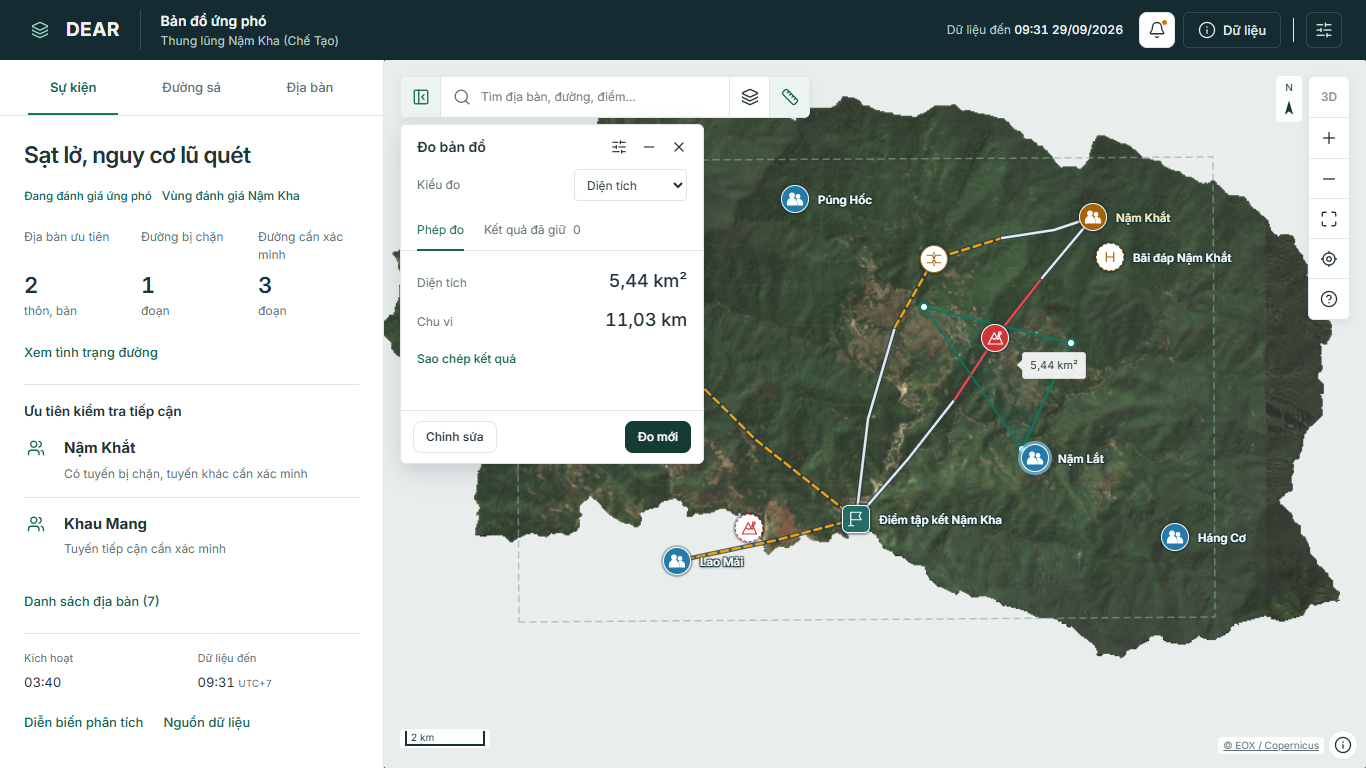
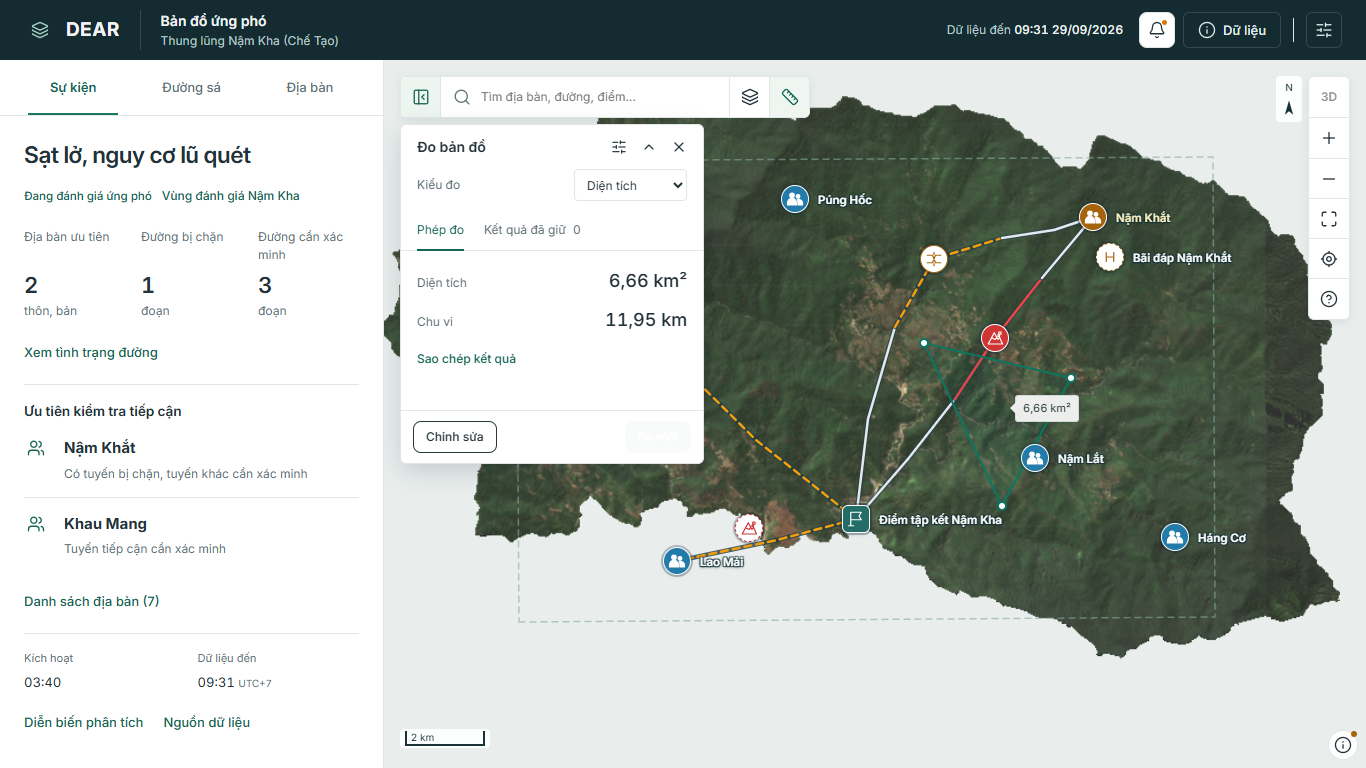
fix(dear): allow measurement tool changes and document GIS review

diff --git a/DEM_to_3D/viewer/src/features/measurement/measurementSession.test.ts b/DEM_to_3D/viewer/src/features/measurement/measurementSession.test.ts
@@ -51,11 +51,41 @@ describe('measurement session', () => {
     expect(applied.editing).toBe(false);
     expect(applied.source).toBeUndefined();
   });
-  it('does not apply invalid edits and does not switch modes during editing', () => {
+  it('does not apply invalid edits and restores the original result when switching modes', () => {
     const finished = reduce(reduce(initialMeasurementSession, { type: 'points', points: [a, b] }), { type: 'finish' });
     const invalid = reduce(reduce(finished, { type: 'edit' }), { type: 'points', points: [a] });
     expect(reduce(invalid, { type: 'finish' })).toBe(invalid);
-    expect(reduce(invalid, { type: 'mode', mode: 'area' })).toBe(invalid);
+    const switched = reduce(invalid, { type: 'mode', mode: 'area' });
+    expect(switched.mode).toBe('area');
+    expect(switched.points).toEqual([]);
+    expect(switched.editing).toBe(false);
+    expect(switched.saved[0].points).toEqual([a, b]);
     expect(reduce(invalid, { type: 'cancel' }).points).toEqual([a, b]);
+  });
+  it('retains valid edits in their original mode and starts a new measurement', () => {
+    const imported = reduce(initialMeasurementSession, { type: 'import', mode: 'distance', points: [a, b], source: 'Road' });
+    const editedPoints = [a, { ...b, x: b.x + 100 }];
+    const edited = reduce(reduce(imported, { type: 'edit' }), { type: 'points', points: editedPoints });
+    expect(reduce(edited, { type: 'mode', mode: 'distance' })).toBe(edited);
+    const switched = reduce(edited, { type: 'mode', mode: 'area' });
+    expect(switched.saved).toEqual([{ id: 1, mode: 'distance', points: editedPoints, visible: true, source: undefined }]);
+    expect(switched.points).toEqual([]);
+    expect(switched.editStart).toBeUndefined();
+    expect(switched.undo).toEqual([]);
+    expect(switched.finished).toBe(false);
+  });
+  it('preserves source attribution when an invalid edit is discarded during a mode change', () => {
+    const imported = reduce(initialMeasurementSession, { type: 'import', mode: 'distance', points: [a, b], source: 'Road' });
+    const invalid = reduce(reduce(imported, { type: 'edit' }), { type: 'points', points: [a] });
+    expect(reduce(invalid, { type: 'mode', mode: 'bearing' }).saved[0]).toEqual({ id: 1, mode: 'distance', points: [a, b], visible: true, source: 'Road' });
+  });
+  it('discards an unfinished sketch when switching tools without losing completed results', () => {
+    const imported = reduce(initialMeasurementSession, { type: 'import', mode: 'distance', points: [a, b], source: 'Road' });
+    const next = reduce(imported, { type: 'new' });
+    const draft = reduce(next, { type: 'points', points: [a] });
+    const switched = reduce(draft, { type: 'mode', mode: 'area' });
+    expect(switched.points).toEqual([]);
+    expect(switched.saved).toEqual(next.saved);
+    expect(switched.nextId).toBe(next.nextId);
   });
 });

diff --git a/DEM_to_3D/viewer/src/features/measurement/MapMeasurement.tsx b/DEM_to_3D/viewer/src/features/measurement/MapMeasurement.tsx
@@ -52,11 +52,11 @@ export function MapMeasurement({ mapRef, enabled, locale, session, dispatch, sou
     <div className="map-measure-heading floating-panel-handle" {...floating} tabIndex={0} role="group" aria-label={t('Vị trí công cụ đo', 'Measurement panel position')} aria-keyshortcuts="ArrowLeft ArrowRight ArrowUp ArrowDown Home" title={t('Kéo để đổi vị trí. Nhấp đúp để đặt lại.', 'Drag to move. Double-click to reset.')}>
       <strong>{t('Đo bản đồ', 'Map measurement')}</strong>
       <button className="icon-button" aria-label={t('Tùy chọn đo', 'Measurement settings')} title={t('Tùy chọn đo', 'Measurement settings')} aria-expanded={view === 'options' && !collapsed} aria-controls="measurement-options" onClick={() => { setCollapsed(false); setView(value => value === 'options' ? 'measure' : 'options'); }}><UiIcon name="settings" size={16}/></button>
-      <button className="icon-button" aria-label={collapsed ? t('Mở rộng công cụ đo', 'Expand measurement') : t('Thu gọn công cụ đo', 'Collapse measurement')} aria-expanded={!collapsed} onClick={() => setCollapsed(value => !value)}><UiIcon name={collapsed ? 'plus' : 'minus'} size={16}/></button>
+      <button className="icon-button" aria-label={collapsed ? t('Mở rộng công cụ đo', 'Expand measurement') : t('Thu gọn công cụ đo', 'Collapse measurement')} aria-expanded={!collapsed} onClick={() => setCollapsed(value => !value)}><UiIcon name={collapsed ? 'expand' : 'collapse'} size={16}/></button>
       <button className="icon-button" aria-label={t('Đóng công cụ đo', 'Close measurement')} onClick={close}><UiIcon name="close" size={16}/></button>
     </div>
     {collapsed ? <button className="map-measure-compact" onClick={() => setCollapsed(false)}><span>{t(...modeNames[session.mode])}</span><strong>{results[0]?.[1] ?? t('Chọn điểm', 'Select points')}</strong></button> : <>
-      <label className="map-measure-type"><span>{t('Kiểu đo', 'Measurement type')}</span><select aria-label={t('Kiểu đo', 'Measurement type')} disabled={session.editing} value={session.mode} onChange={event => { dispatch({ type: 'mode', mode: event.target.value as MeasureMode }); setView('measure'); }}>
+      <label className="map-measure-type"><span>{t('Kiểu đo', 'Measurement type')}</span><select aria-label={t('Kiểu đo', 'Measurement type')} value={session.mode} onChange={event => { dispatch({ type: 'mode', mode: event.target.value as MeasureMode }); setView('measure'); }}>
         {Object.entries(modeNames).map(([mode, name]) => <option key={mode} value={mode}>{t(...name)}</option>)}
       </select></label>
       <div className="measure-tabs" aria-label={t('Nội dung công cụ đo', 'Measurement views')}>

diff --git a/DEM_to_3D/viewer/src/features/measurement/MeasurementRecords.tsx b/DEM_to_3D/viewer/src/features/measurement/MeasurementRecords.tsx
@@ -13,7 +13,7 @@ export function MeasurementDetails({ session, units, locale }: Props) {
   const hasCoordinates = session.mode === 'location' && session.points.length > 0;
   if (!hasSegments && !hasCoordinates) return null;
   return <div className="measure-details">
-    <button className="measure-detail-toggle" aria-expanded={open} aria-controls="measurement-details" onClick={() => setOpen(value => !value)}>{hasSegments ? t('Chi tiết từng đoạn', 'Segment details') : 'UTM 48N'}<UiIcon name={open ? 'minus' : 'plus'} size={14}/></button>
+    <button className="measure-detail-toggle" aria-expanded={open} aria-controls="measurement-details" onClick={() => setOpen(value => !value)}>{hasSegments ? t('Chi tiết từng đoạn', 'Segment details') : 'UTM 48N'}<UiIcon name={open ? 'collapse' : 'expand'} size={14}/></button>
     {open && <div id="measurement-details">{hasSegments ? <table><thead><tr><th>{t('Đoạn', 'Segment')}</th><th>{t('Chiều dài', 'Length')}</th></tr></thead><tbody>{session.points.slice(1).map((point, index) => <tr key={index}><td>{t('Đoạn ', 'Segment ') + (index + 1)}</td><td>{formatDistance(horizontalLength([session.points[index], point]), units, locale)}</td></tr>)}</tbody></table> : <dl className="measure-coordinate-grid"><div><dt>E</dt><dd>{session.points[0].x.toFixed(1)} m</dd></div><div><dt>N</dt><dd>{session.points[0].y.toFixed(1)} m</dd></div></dl>}</div>}
   </div>;
 }

diff --git a/DEM_to_3D/viewer/src/features/measurement/measurementSession.ts b/DEM_to_3D/viewer/src/features/measurement/measurementSession.ts
@@ -35,7 +35,13 @@ export function measurementSessionReducer(state: MeasurementSession, action: Mea
     case 'finish': return canFinish(state.mode, state.points) ? { ...state, finished: true, editing: false, editStart: undefined } : state;
     case 'cancel': return state.editing && state.editStart ? { ...state, ...state.editStart, editing: false, editStart: undefined, undo: [], redo: [] } : state.finished ? state : fresh(state);
     case 'new': return state.editing ? state : archive(state);
-    case 'mode': return state.editing || action.mode === state.mode ? state : { ...archive(state), mode: action.mode };
+    case 'mode': {
+      if (action.mode === state.mode) return state;
+      // Retain a valid edit, or the original result if the edit is incomplete.
+      const result = state.editing && !canFinish(state.mode, state.points)
+        ? { ...state, ...state.editStart } : state;
+      return { ...archive(result), mode: action.mode };
+    }
     case 'import': return !state.editing && canFinish(action.mode, action.points)
       ? { ...archive(state), mode: action.mode, points: action.points, finished: true, source: action.source } : state;
     case 'visible': return { ...state, saved: state.saved.map(item => item.id === action.id ? { ...item, visible: !item.visible } : item) };

diff --git a/DEM_to_3D/viewer/src/styles/workspace.css b/DEM_to_3D/viewer/src/styles/workspace.css
@@ -692,8 +692,8 @@ h3 {
 .feature-reference summary { cursor: pointer; padding: 8px 0; }
 .workspace summary { list-style: none; display: flex; align-items: center; gap: 12px; }
 .workspace summary::-webkit-details-marker { display: none; }
-.workspace summary::after { content: ''; flex: none; margin-left: auto; width: 12px; height: 12px; background: linear-gradient(currentColor, currentColor) center / 10px 1px no-repeat, linear-gradient(currentColor, currentColor) center / 1px 10px no-repeat; opacity: .65; }
-.workspace details[open] > summary::after { background: linear-gradient(currentColor, currentColor) center / 10px 1px no-repeat; }
+.workspace summary::after { content: ''; flex: none; margin: 0 3px 0 auto; width: 6px; height: 6px; border: solid currentColor; border-width: 0 1.5px 1.5px 0; transform: rotate(-45deg); opacity: .65; }
+.workspace details[open] > summary::after { transform: rotate(45deg); }
 .feature-reference dl { margin-top: 8px; }
 .evidence-document-status { margin: 16px 0 0; }
 .upload-requirements { margin-top: 16px; font-size: 12px; color: var(--ws-muted); }

diff --git a/DEM_to_3D/viewer/scripts/check_measurement_tools.py b/DEM_to_3D/viewer/scripts/check_measurement_tools.py
@@ -32,7 +32,17 @@ def run(url, chrome, captures):
             page.mouse.click(*position) if click else page.mouse.move(*position)
 
         def mode(value):
-            panel.get_by_role('combobox', name='Measurement type', exact=True).select_option(value)
+            selector = panel.get_by_role('combobox', name='Measurement type', exact=True)
+            expect(selector).to_be_enabled()
+            index = selector.evaluate('(node, value) => [...node.options].findIndex(option => option.value === value)', value)
+            assert index >= 0, value
+            # Use a real mouse click and native menu keys, not select_option().
+            # This catches blocked pointer targets and an unexpectedly disabled control.
+            selector.click()
+            page.keyboard.press('Home')
+            for _ in range(index): page.keyboard.press('ArrowDown')
+            page.keyboard.press('Enter')
+            expect(selector).to_have_value(value)
 
         pick(.55, .3); pick(.75, .35, False)
         expect(panel.locator('.map-measure-result')).to_contain_text('km')
@@ -75,9 +85,19 @@ def run(url, chrome, captures):
         assert panel.bounding_box()['height'] < normal * .5
         if captures: page.screenshot(path=str(captures / 'measurement-compact.png'))
         panel.get_by_role('button', name='Expand measurement', exact=True).click()
-        panel.get_by_role('button', name='New', exact=True).click()
+        # The operator can change tools while editing. The valid result is retained.
+        retained_value = panel.locator('.map-measure-result dd').first.text_content()
+        panel.get_by_role('button', name='Edit', exact=True).click()
+        mode('area')
+        expect(panel).to_have_attribute('data-stage', 'drawing')
+        expect(page.locator('.map-measure-vertex')).to_have_count(0)
         expect(page.locator('.map-measure-label')).to_have_count(1)
-        mode('area'); pick(.55, .3); pick(.75, .3); pick(.75, .5)
+        assert panel.bounding_box() == initial_box
+        panel.get_by_text('Retained results', exact=False).click()
+        expect(panel.locator('.measure-history-row')).to_have_count(1)
+        expect(panel.locator('.measure-history-row').first).to_contain_text(retained_value)
+        panel.get_by_role('button', name='Measurement', exact=True).click()
+        pick(.55, .3); pick(.75, .3); pick(.75, .5)
         # Closing by the first vertex avoids appending duplicate polygon points.
         page.locator('.map-measure-vertex').first.click()
         expect(panel.get_by_role('button', name='New', exact=True)).to_be_visible()
@@ -177,7 +197,7 @@ def run(url, chrome, captures):
         expect(panel.get_by_role('button', name='Copy results', exact=True)).to_be_visible()
         assert not errors, errors
         context.close(); browser.close()
-        print('Measurement tools passed: six modes, live preview, editing, undo/redo, units, copy, history, collapse, mobile and 3D lifecycle.')
+        print('Measurement tools passed: six modes, native type selection while editing, live preview, undo/redo, units, copy, history, collapse, mobile and 3D lifecycle.')
 
 
 if __name__ == '__main__':

diff --git a/docs/quality/gis-review.md b/docs/quality/gis-review.md
@@ -1,0 +1,48 @@
+# Đánh giá GIS và viễn thám
+
+Cập nhật: 2026-10-05. Phạm vi: web DEAR và proposal SIC, trang 2–3. Đây là rà soát sản phẩm và tài liệu, chưa thử với người trực hoặc nghiệm thu dữ liệu.
+
+## Kết luận
+
+Web đủ để trình diễn sự kiện → ảnh hưởng → địa bàn ưu tiên → phương án tiếp cận → căn cứ. Chưa đủ để vận hành phân tích viễn thám: nhận định đang dùng dữ liệu mô phỏng, chưa có chuỗi xử lý SAR/AI và kiểm chứng hiện trường.
+
+Ưu tiên được tính bằng quy tắc, tuyến bằng Dijkstra. LLM không quyết định thứ tự cứu hộ. Xem [phương pháp hiện tại](../architecture/response-analysis.md) và [kết quả kiểm tra](workspace-review.md).
+
+## Thứ tự cải thiện
+
+| Ưu tiên | Vấn đề | Kết quả cần có |
+|---|---|---|
+| 1. Thao tác | Khóa bộ chọn, panel dịch vị trí, khó kết thúc/chỉnh hình | Đổi công cụ được, giữ kết quả hợp lệ, header đứng yên. Click/Enter/nhấp đúp có hành vi thống nhất |
+| 2. Đọc tình huống | Nhiều khối giải thích cạnh tranh với quyết định chính | Màn đầu giữ sự kiện, giờ cập nhật, địa bàn ưu tiên và đường cản trở. Chi tiết địa bàn giữ phương án và việc cần kiểm tra. Phương pháp/metadata mở khi cần |
+| 3. Căn cứ | Bản ghi văn bản chưa thay thế bằng chứng ảnh | Từ đoạn đường/điểm ảnh hưởng mở đúng ảnh hoặc báo cáo gốc, vị trí, giờ quan sát và kết luận. Phân biệt dữ liệu thiếu với nhận định chưa chắc chắn |
+| 4. Sản phẩm bản đồ | Proposal có vùng sạt lở/ngập, khu cô lập và H. Hiện chủ yếu có điểm ảnh hưởng và H đề xuất | Polygon có nguồn, ngày và mức xác minh. Chỉ vẽ phạm vi khi có dữ liệu. Kết luận cô lập cần mạng tiếp cận đủ vùng. H cần khảo sát khả năng sử dụng |
+| 5. Dữ liệu ảnh | Có so GeoTIFF nhưng chưa có cặp ảnh được RS duyệt | Ngày thu nhận, cảm biến, độ phân giải, mức xử lý, vùng dữ liệu hợp lệ và mask chất lượng. Nền Sentinel 2016 chỉ làm bối cảnh |
+| 6. Đọc bản đồ theo tỷ lệ | Đã có gom điểm và tránh chồng nhãn, cần kiểm trên dữ liệu thực | Nhãn ít khi zoom xa, giữ đối tượng đang chọn và ưu tiên. Nền giảm tương phản, lớp tình huống nổi bật. Ký hiệu có hình/nét bổ sung màu |
+| 7. Bối cảnh khu vực | Khi mất mạng, ngoài ảnh địa hình còn trống | Chuẩn bị nền khu vực có quyền sử dụng cho gói demo. Giữ rõ phạm vi DEM, AOI và vùng đã phân tích |
+
+Hai mục đầu phục vụ demo ngay. Dữ liệu ảnh và sản phẩm phân tích cần phối hợp RS/AI/BA. Skill và cải thiện CSS không thay thế dữ liệu đã kiểm chứng.
+
+## Quy tắc giao diện
+
+| Câu hỏi | Quyết định cho DEAR | Căn cứ |
+|---|---|---|
+| Dấu cộng để mở rộng có sai chuẩn GIS? | Không. Dùng chevron nét mảnh để phân biệt mở nội dung với zoom/thêm hình | [Calcite Accordion](https://developers.arcgis.com/calcite-design-system/components/accordion/) hỗ trợ chevron, caret và plus-minus. [W3C Disclosure](https://www.w3.org/WAI/ARIA/apg/patterns/disclosure/) quy định hành vi và trạng thái, không bắt buộc một hình icon |
+| Cái gì được thu gọn? | Từng đoạn đo, nguồn và tùy chọn. Kết quả, trạng thái đường và hành động tiếp theo luôn thấy | [Calcite Block](https://developers.arcgis.com/calcite-design-system/components/block/) tổ chức nhóm điều khiển trong panel và khuyến cáo không giấu thông tin thiết yếu |
+| Kết thúc phép đo thế nào? | Nhấp đúp, Enter hoặc nút Kết thúc. Kéo bản đồ không kết thúc phép đo | [ArcGIS Map Viewer](https://doc.arcgis.com/en/arcgis-online/get-started/measure-mv.htm) dùng click để thêm đỉnh, nhấp đúp để kết thúc và vẫn cho pan |
+| Có cần ghi mọi giới hạn trên bản đồ? | Chỉ hiện cảnh báo ảnh hưởng trực tiếp tới thao tác/kết luận. CRS, cách tính và nguồn ở thông tin công cụ/lớp | Quyết định thiết kế của DEAR. Không xóa nguồn hoặc giới hạn khỏi metadata/bản xuất |
+
+UNOSAT là tham chiếu về thứ bậc bản đồ, lớp ảnh hưởng, nguồn và ngày. [PDF Nepal 2024](https://unosat.org/static/unosat_filesystem/3990/UNOSAT_A3_Natural_Protrait_FL20240928NPL_01Oct2024.pdf) tách vùng phân tích, nước thường xuyên và phạm vi nước theo ngày, đồng thời ghi hạn chế phân tích radar. Không cần đưa toàn bộ ghi chú lên bản đồ web, nhưng nguồn và giới hạn phải đọc được khi mở lớp/bản xuất. Đây là sự kiện khác với [web Nepal 2026](https://unosat.org/products/4256), chưa kiểm tra đầy đủ tương tác trực tiếp trong lượt này.
+
+## Skill đã khảo sát
+
+Danh mục curated của OpenAI chưa có skill chuyên GIS. Các nguồn dưới đây đã đọc nội dung, chưa cài vào môi trường.
+
+| Skill và nguồn | Dùng để làm gì | Mức phù hợp |
+|---|---|---|
+| [mapbox-cartography](https://github.com/mapbox/mapbox-agent-skills/blob/main/skills/mapbox-cartography/SKILL.md), Mapbox | Thứ bậc lớp, màu nền, nhãn theo tỷ lệ, ký hiệu dễ phân biệt | Ưu tiên tham khảo ngay. Áp dụng nguyên tắc cho Leaflet/Three, không chép API Mapbox |
+| [web-design-guidelines](https://github.com/vercel-labs/agent-skills/blob/main/skills/web-design-guidelines/SKILL.md), Vercel Labs | Rà spacing, focus, điều khiển biểu mẫu, phản hồi trạng thái và accessibility | Phù hợp cho toàn bộ panel/công cụ. Checklist không tự tạo ra thiết kế đẹp |
+| [playwright](https://github.com/openai/skills/tree/main/skills/.curated/playwright), OpenAI | Kiểm tương tác thật, chụp màn hình, desktop/mobile | Phù hợp ngay. Dự án đã có bộ kiểm tra Playwright, bổ sung các lỗi người dùng gặp |
+| [remote-sensing-analysis](https://github.com/muend/geoai-skills/blob/main/skills/remote-sensing-analysis/SKILL.md), cộng đồng | Chuẩn bị ảnh, calibration, mask, chỉ số và kiểm chứng phân loại | Dùng làm checklist trao đổi với RS. Không phải tiêu chuẩn hoặc quy trình SAR đã được nghiệm thu. Đối chiếu tài liệu cảm biến trước khi thực thi |
+| [MapLibre Agent Skills](https://github.com/maplibre/maplibre-agent-skills), MapLibre | Cartography, terrain, tile sources, glyphs và PMTiles | Hữu ích khi nghiên cứu nền bản đồ về sau. Không cần đổi engine cho demo chỉ để dùng skill |
+
+Nên bắt đầu với cartography, web-design-guidelines và Playwright. Khi có ảnh thật, chọn thêm skill viễn thám theo bài toán cụ thể và để RS duyệt quy trình.

diff --git a/docs/quality/workspace-review.md b/docs/quality/workspace-review.md
@@ -18,7 +18,8 @@ Cập nhật: 2026-10-05. Phạm vi: web React, gói Chế Tạo v0.2 và API sn
 | Thiếu tuyến được nhắc lại ở nhiều khối | Tab Tiếp cận giữ một kết luận và việc cần bổ sung. Tab Tuyến có một trạng thái trống và mở thông tin địa bàn. Lý do chi tiết nằm trong Căn cứ, không lặp trên header |
 | Panel nhảy khi mở tùy chọn hoặc có kết quả | Giữ header tại vị trí đã chọn, cuộn nội dung bên trong. Kiểm tra sát đáy: không dịch vị trí khi đổi nội dung |
 | Vẽ và kết thúc đo thiếu rõ ràng | Tách vẽ/xem/chỉnh sửa. Nhấp đúp điểm cuối, Enter hoặc nút Kết thúc. Đóng tạm dừng bản vẽ; Hủy chỉnh sửa khôi phục kết quả cũ |
-| Mục mở rộng và hàng lớp bị lệch | Thay tam giác bằng dấu cộng/trừ ở cuối hàng. Căn giữa checkbox, tên lớp và nút nguồn |
+| Mục mở rộng và hàng lớp bị lệch | Chevron nét mảnh ở cuối hàng. Căn giữa checkbox, tên lớp và nút nguồn |
+| Không chọn được kiểu đo khi chỉnh sửa | Bỏ khóa bộ chọn. Đổi kiểu giữ kết quả hợp lệ trước khi bắt đầu phép đo mới. Kiểm tra bằng click thật và bàn phím |
 
 [Panel vùng đánh giá](assets/workspace-area.png) và [bãi đáp đề xuất](assets/workspace-landing-site.png) giữ từ lượt trước. Ảnh công cụ đo đã cập nhật. Lượt này chạy lại sáu bộ kiểm tra CI, gồm panel trên 1366, 1024, 390, 320 px, các địa bàn thiếu tuyến và tiếng Anh.
 
@@ -37,6 +38,8 @@ Cập nhật: 2026-10-05. Phạm vi: web React, gói Chế Tạo v0.2 và API sn
 | So ảnh trước/sau | Đọc GeoTIFF hiển thị, kiểm ngày/nguồn/CRS/vùng chung, so bằng thanh trượt | Cặp ảnh RS duyệt, mask mây và chất lượng phân tích |
 
 Ưu tiên cứu hộ không đồng nghĩa cô lập. Chưa ghi nhận chặn không đồng nghĩa đã xác nhận đi được. H là vị trí mô phỏng chưa khảo sát. Quy tắc và giả định ở [phân tích ứng phó](../architecture/response-analysis.md).
+
+[Đánh giá GIS và viễn thám](gis-review.md) nêu ưu tiên cải thiện, căn cứ UI và các skill đã khảo sát.
 
 ## Thiết kế hiện hành
 
@@ -74,8 +77,8 @@ Cập nhật: 2026-10-05. Phạm vi: web React, gói Chế Tạo v0.2 và API sn
 
 | Kiểm tra | Kết quả |
 |---|---|
-| TypeScript và build | Đạt. JavaScript đầu vào khoảng 796 KB, 250 KB gzip. Chunk app khoảng 370 KB, React/Leaflet/validation riêng. 2D không tải Three.js/GLB, 3D còn chunk lớn hơn 500 KB |
-| TypeScript unit tests | 148 kiểm thử đạt, gồm trạng thái đo/chỉnh/hủy, tọa độ/độ cao, giới hạn cửa sổ, nhóm điểm, snapshot, tuyến/ưu tiên, so ảnh, GeoJSON, timeout/hủy tải và manifest |
+| TypeScript và build | Đạt. JavaScript đầu vào khoảng 800 KB, 251 KB gzip. Chunk app khoảng 374 KB, React/Leaflet/validation riêng. 2D không tải Three.js/GLB, 3D còn chunk lớn hơn 500 KB |
+| TypeScript unit tests | 151 kiểm thử đạt, gồm đổi kiểu đo khi chỉnh sửa, giữ kết quả hợp lệ, đo/chỉnh/hủy, tọa độ/độ cao, giới hạn cửa sổ, nhóm điểm, snapshot, tuyến/ưu tiên, so ảnh, GeoJSON, timeout/hủy tải và manifest |
 | Python | 8 kiểm thử dữ liệu, 3 API và 2 đóng gói đạt |
 | Chrome: prepared và API | Sự kiện, AOI, địa bàn, tuyến, nguồn, đọc/áp dụng tin và mặt cắt đạt |
 | Chrome: lỗi dữ liệu và GPU | Chặn Internet, lỗi GLB, không có WebGL, mất context 3D: 2D tiếp tục dùng được. API lỗi không hiện dữ liệu mô phỏng thay thế |
@@ -87,7 +90,7 @@ Cập nhật: 2026-10-05. Phạm vi: web React, gói Chế Tạo v0.2 và API sn
 | Chrome: nguồn lớp | Đạt: nguồn/ngày theo bản dữ liệu cũ/mới, ngày ảnh chưa có, giới hạn H, nguồn riêng cho Imagery/Terrain Light, bàn phím và chiều rộng 320–1366 px |
 | Vòng đời 3D | Sửa gỡ listener trước khi React tháo canvas. Giải phóng tài nguyên GPU của renderer cũ, giữ dữ liệu để mở lại. 25 vòng thử nhanh không tăng DOM/listener |
 | Phiên 30 phút | Đạt: 58 vòng chọn địa bàn/tuyến, mặt cắt, 3D/2D, áp dụng tin và đặt lại. 20 PNG, không lỗi JavaScript. Sau vòng 10: DOM/listener không tăng, JS heap tăng 0,70 MB |
-| Lặp phiên trên build cuối | Linux: 5 vòng trong 43,6 giây, DOM/listener giữ nguyên, JS heap tăng 0,64 MB. Thử dài 30 phút ở hàng trên là kết quả của build trước |
+| Lặp phiên trên build cuối | Linux: 6 vòng trong 39,4 giây, DOM/listener giữ nguyên, JS heap tăng 0,74 MB. Thử dài 30 phút ở hàng trên là kết quả của build trước |
 | CI Linux | Toàn bộ workflow đạt trên Ubuntu 24.04, Node 22.23.2, Python 3.12.3, Playwright 1.63.0: cài sạch, unit/dữ liệu/audit/build/gói và sáu bộ kiểm tra trình duyệt |
 | GitHub Actions | Run của commit `756510a` dừng ở npm test. Tái hiện lỗi checksum JSON do CRLF/LF, đã chuẩn hóa file và thêm `.gitattributes`. Commit mới cần push để xác nhận trạng thái GitHub |
 | Source dùng khi deploy | Import kiểm đúng chữ hoa/thường. Thư mục sạch với file được Git theo dõi chuẩn bị đủ dữ liệu, kiểm checksum đạt |

diff --git a/docs/product/design-system.md b/docs/product/design-system.md
@@ -31,7 +31,7 @@ Giá trị dùng chung nằm trong [tokens.css](../../DEM_to_3D/viewer/src/style
 | Tìm kiếm bản đồ | Một ô chung cho địa bàn, đường và điểm. Kết quả ghi tên và loại đối tượng. Hỗ trợ Enter, mũi tên và Escape |
 | Thanh bản đồ | Nút panel, tìm kiếm, lớp và đo cùng thanh trên trái. Điều hướng và thông tin vị trí ở nhóm trên phải |
 | Đo bản đồ | Ba trạng thái: vẽ, xem kết quả, chỉnh sửa. Kết thúc bằng nút, Enter hoặc nhấp đúp điểm cuối. Chọn Chỉnh sửa trước khi kéo điểm. Phép đo và kết quả đã giữ dùng hai mục riêng; tùy chọn thay nội dung bên trong bảng |
-| Mở nội dung phụ | Không dùng tam giác mặc định. Dấu cộng/trừ nhỏ ở cuối hàng, toàn bộ hàng bấm được. Không lồng nhiều cấp mở rộng |
+| Mở nội dung phụ | Chevron nét mảnh ở cuối hàng, toàn bộ hàng bấm được. Trạng thái mở có `aria-expanded`. Không lồng nhiều cấp hoặc giấu hành động chính |
 | Không gian bản đồ | Panel trái chỉnh độ rộng hoặc thu gọn, giữ lựa chọn. Chú giải có thể thu về một nút. Mở lớp/đo/tọa độ tạm ẩn chú giải |
 | Cửa sổ công cụ | Header cố định, nội dung cuộn trong bảng. Không đổi vị trí khi nội dung tăng hoặc mở tùy chọn. Kéo tiêu đề trên desktop, phím mũi tên để dịch, Home/nhấp đúp để đặt lại. Giữ vị trí trong phiên; mobile dùng vị trí cố định |
 | Thông tin vị trí | Dùng chung trên 2D và 3D. Chọn điểm để đọc tọa độ, độ cao, đổi WGS84/hệ tọa độ dữ liệu và sao chép. Không mở lại bảng thông số kỹ thuật đầy màn hình |

diff --git a/docs/README.md b/docs/README.md
@@ -15,6 +15,7 @@
 | Ai đang làm gì, còn thiếu gì? | [Danh sách công việc](tasks/sic-2026.md) | Cả nhóm |
 | Thế nào là hoàn thành? | [Tiêu chí nghiệm thu](quality/acceptance.md) | Cả nhóm |
 | Luồng ứng phó hiện tại đã ổn chưa? | [Rà soát giao diện](quality/workspace-review.md) | PO, SW, RS |
+| Cần cải thiện gì về GIS, viễn thám và skill hỗ trợ? | [Đánh giá GIS và viễn thám](quality/gis-review.md) | PO, SW, RS, AI |
 | Dùng công nghệ gì, chia phần mềm thế nào? | [Kiến trúc hệ thống](architecture/overview.md) | SW, AI |
 | Backend cần xây gì, chọn công nghệ và triển khai thế nào? | [Kế hoạch backend](plans/backend.md), chỉ nghiên cứu | SW, AI, RS, PO |
 | Luồng nhập trên bản đồ/admin cần dữ liệu và API gì? | [Tiếp nhận và công bố dữ liệu](architecture/data-ingestion.md), thiết kế dự kiến | SW, AI, RS, PO |
